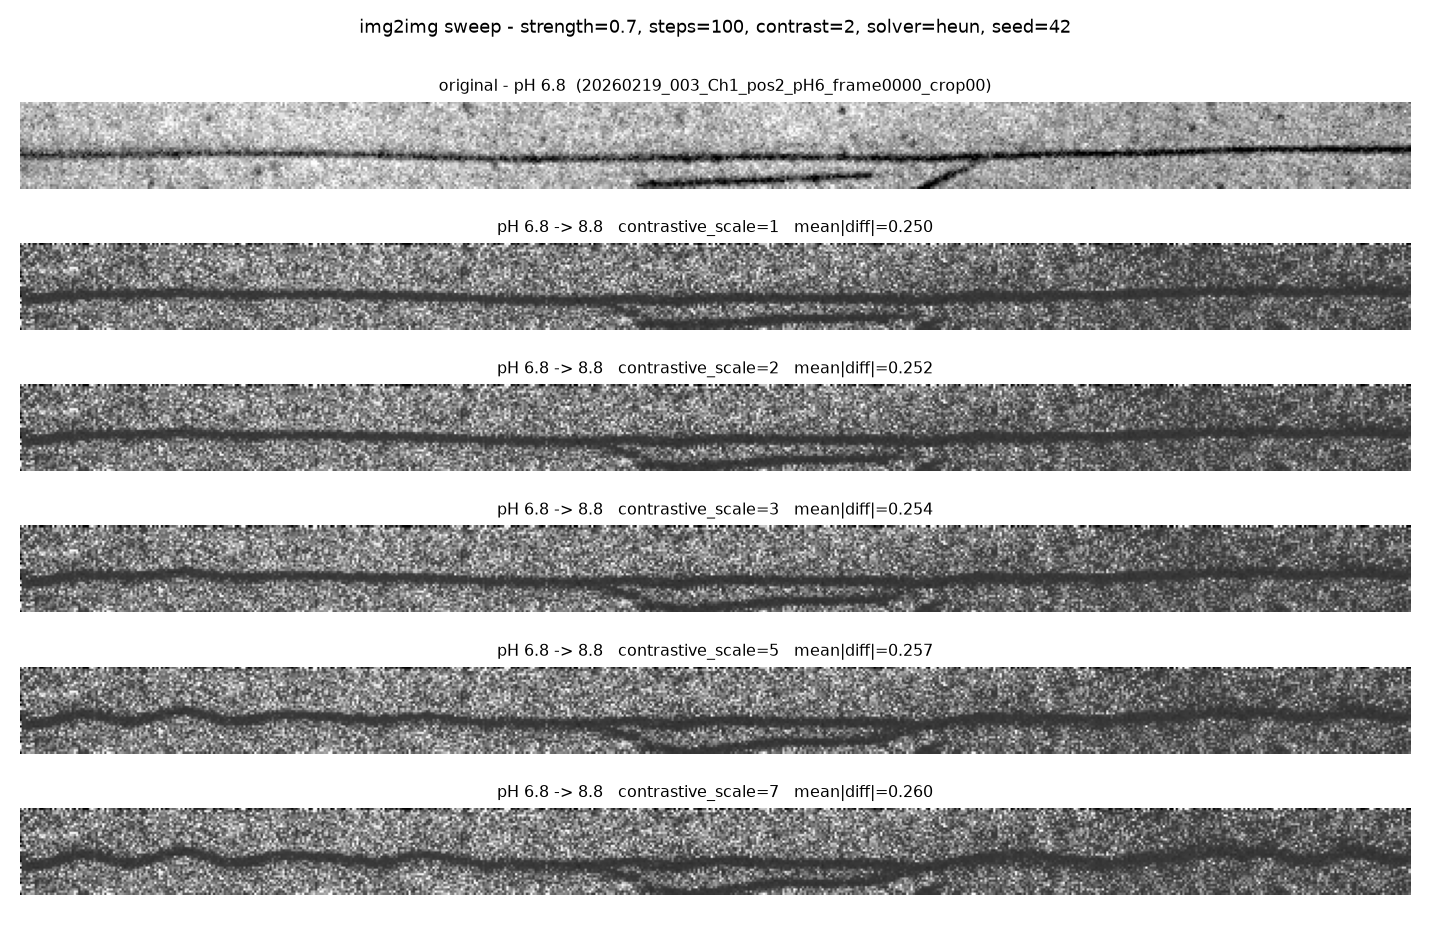
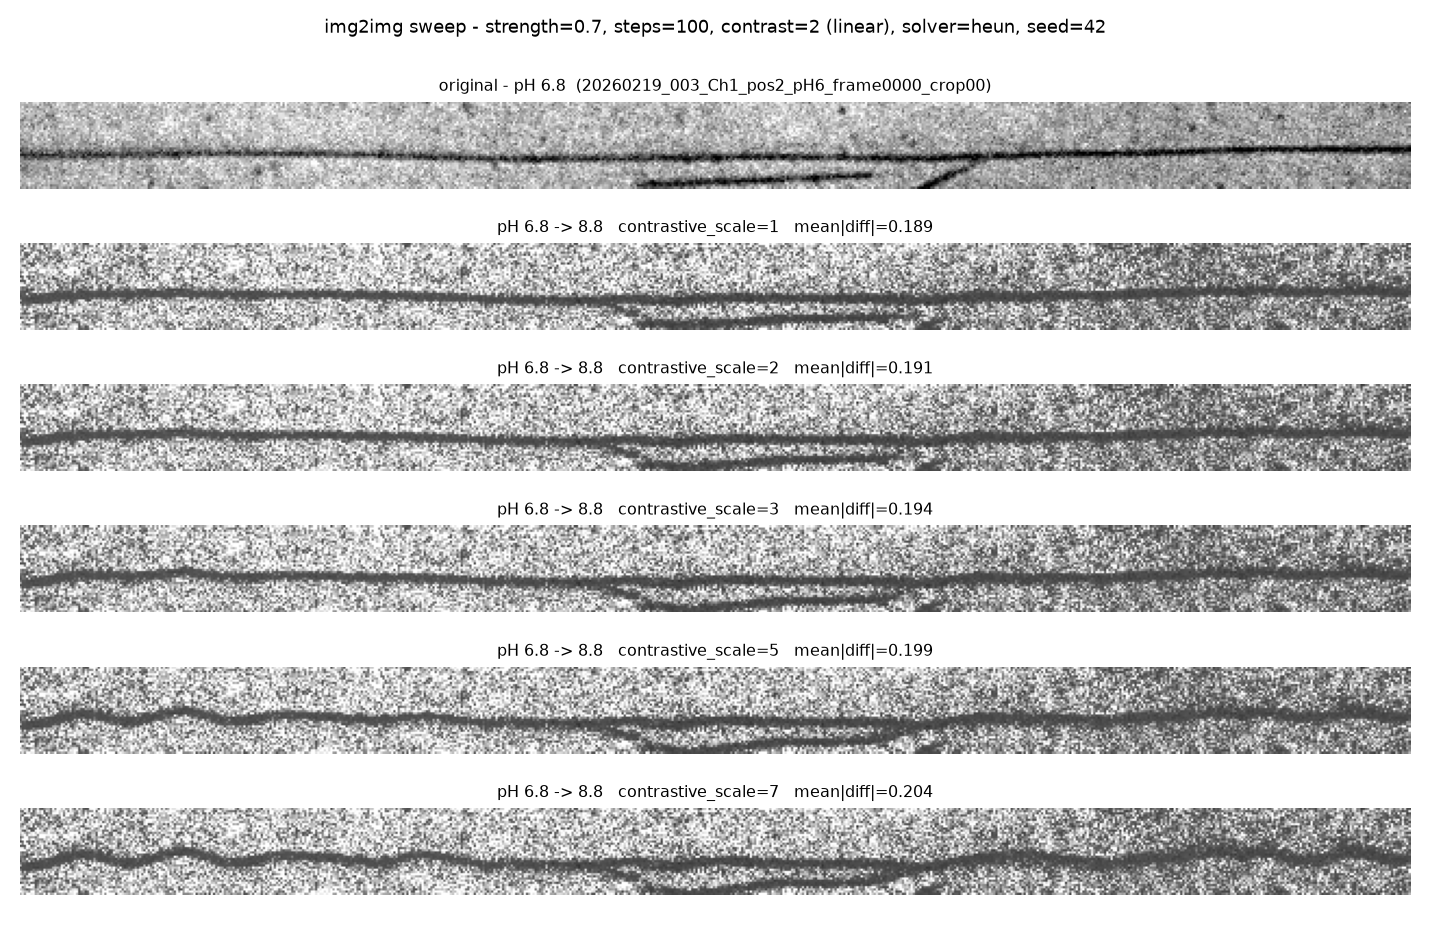
Enhance img2img functionality with gap repair and contrast adjustments
- Added `repair_fibre_gaps` and `save_repair_diagnostic` functions for bridging gaps in fibre images.
- Updated `edit_image` to include a new `contrast_mode` parameter for flexible contrast adjustments.
- Modified `main` function in `test_img2img.py` to support gap repair and diagnostic saving.
- Improved blending mask creation in `create_blending_mask` for better edge handling.

diff --git a/img2img.py b/img2img.py
@@ -30,10 +30,38 @@ def load_and_preprocess_image(image_path):
     return img_tensor, original_size
 
 def create_blending_mask(window_size, device):
-    """create a 2D blending mask using a Hann window for smooth transitions between overlapping patches"""
-    window_1d = torch.hann_window(window_size, periodic=False, device=device)
+    """create a 2D blending mask using a Hann window for smooth transitions between overlapping patches
+
+    The window is taken from the INTERIOR of a Hann window of length window_size + 2.
+    A plain hann_window(window_size) is exactly 0 at both endpoints, and the canvas border
+    is covered by only one patch, so weight_global there is 0. Dividing by the clamped
+    weight then yields velocity 0, freezing row 0 and column 0 at their initial noise
+    value - the speckled 1px edge that appeared on the left/top of every result. Trimming
+    the endpoints keeps the window strictly positive while staying symmetric.
+    """
+    window_1d = torch.hann_window(window_size + 2, periodic=False, device=device)[1:-1]
     mask_2d = window_1d.unsqueeze(1) * window_1d.unsqueeze(0)
     return mask_2d.unsqueeze(0).unsqueeze(0)  # Shape: (1, 1, H, W)
+
+
+def apply_contrast(img01, contrast, mode="linear"):
+    """Contrast boost for an image already mapped to [0, 1].
+
+    mode="linear" scales around the image mean, so the overall brightness is preserved.
+    mode="gamma" is the original img**contrast. That gamma only ever darkens (x**2 < x on
+    [0,1]) - it dropped the mean from 0.64 to 0.43 in testing - and it stretches
+    differences in the dark half of the range, which turns the illumination falloff that
+    is already present in the source crops into a heavy black end. The gradient itself is
+    real data and is left untouched either way; "linear" just stops amplifying it.
+    """
+    if contrast == 1.0:
+        return img01
+    if mode == "gamma":
+        return torch.pow(img01, contrast)
+    if mode != "linear":
+        raise ValueError(f"Unknown contrast mode: {mode!r} (expected 'linear' or 'gamma')")
+    mean = img01.mean()
+    return ((img01 - mean) * contrast + mean).clamp(0, 1)
 
 def safe_mirror_pad_4d(img_tensor, target_h, target_w):
     """
@@ -51,10 +79,127 @@ def safe_mirror_pad_4d(img_tensor, target_h, target_w):
     # Crop to the exact target size if it exceeds
     return img_tensor[:, :, :target_h, :target_w]
 
+def _box_blur(img, k=3):
+    """Small box blur used only to locate the fibre - keeps noise from dominating argmin."""
+    pad = k // 2
+    return F.avg_pool2d(F.pad(img, (pad, pad, pad, pad), mode="reflect"), k, stride=1)
+
+
+@torch.no_grad()
+def repair_fibre_gaps(ref_image, max_gap=30, min_side=6, max_slope=1.5, blur=3):
+    """Bridge short bright breaks in the fibre, returning (repaired_image, list_of_gaps).
+
+    Why this exists: edit_image starts the ODE from (1-strength)*source + strength*noise,
+    so the source stays pinned as an anchor for the whole trajectory. A bright break in the
+    fibre is pinned along with everything else - the guidance wants a dark fibre through
+    that spot while the anchor insists it is bright, and the result fades or breaks exactly
+    there. Loosening the anchor is NOT a fix: at strength 0.85 ghost fibres appear and by
+    0.95 the output degenerates into several stacked copies, because the 0.3 anchor is the
+    only thing suppressing the mirror-padding tiling. So the repair edits the anchor
+    instead, and leaves strength alone.
+
+    Only short interior breaks bracketed by confident fibre on both sides are touched, and
+    the painted line is clamped with a minimum against the original, so background texture
+    survives and only the fibre core darkens.
+    """
+    device = ref_image.device
+    smooth = _box_blur(ref_image, blur)[0, 0]
+    height, width = smooth.shape
+
+    # per-column background: the fibre is thin relative to the strip, so the column median
+    # sits in the background rather than on the fibre
+    background = smooth.median(dim=0).values
+    darkest, path_raw = smooth.min(dim=0)
+    depth = background - darkest  # >0 wherever a dark fibre is present
+
+    strong = torch.quantile(depth, 0.75)
+    if strong <= 0:
+        return ref_image, []
+    confident = depth > 0.5 * strong
+    if int(confident.sum()) < 2 * min_side:
+        return ref_image, []
+
+    # fibre thickness, from the half-maximum width of the confident columns
+    widths = []
+    for x in torch.nonzero(confident).flatten().tolist():
+        widths.append(int((smooth[:, x] < background[x] - 0.5 * depth[x]).sum()))
+    fwhm = torch.tensor(widths, dtype=torch.float32).median().item() if widths else 3.0
+    sigma = float(min(6.0, max(0.8, fwhm / 2.355)))
+
+    repaired = ref_image.clone()
+    rows = torch.arange(height, device=device, dtype=torch.float32).unsqueeze(1)
+    flags = confident.tolist()
+    gaps = []
+
+    x = 0
+    while x < width:
+        if flags[x]:
+            x += 1
+            continue
+        start = x
+        while x < width and not flags[x]:
+            x += 1
+        end = x - 1
+        left, right = start - 1, end + 1
+        # interior breaks only, and only short ones - a long stretch is a fibre that really
+        # does end there, not a defect to paint over
+        if left < 0 or right >= width or (end - start + 1) > max_gap:
+            continue
+        # a large vertical jump between the two sides usually means the columns belong to
+        # two different fibres; bridging them would invent a connection that is not there
+        if abs(int(path_raw[right]) - int(path_raw[left])) / max(1, right - left) > max_slope:
+            continue
+
+        lo = max(0, left - min_side + 1)
+        hi = min(width, right + min_side)
+        amp_left = depth[lo:left + 1][confident[lo:left + 1]]
+        amp_right = depth[right:hi][confident[right:hi]]
+        if amp_left.numel() == 0 or amp_right.numel() == 0:
+            continue
+        amplitude = 0.5 * (amp_left.mean() + amp_right.mean())
+
+        span = right - left
+        for xi in range(start, end + 1):
+            frac = (xi - left) / span
+            y_centre = (1 - frac) * float(path_raw[left]) + frac * float(path_raw[right])
+            base = (1 - frac) * background[left] + frac * background[right]
+            # Blend toward the fibre core weighted by the Gaussian itself: full strength on
+            # the centre line, untouched original a couple of sigma away. Compositing with a
+            # minimum() instead would clamp every background pixel brighter than `base` down
+            # to it, replacing the noise texture across the whole column with a flat band.
+            weight = torch.exp(-0.5 * ((rows.squeeze(1) - y_centre) / sigma) ** 2)
+            repaired[0, 0, :, xi] = (1 - weight) * repaired[0, 0, :, xi] + weight * (base - amplitude)
+
+        gaps.append({"start": start, "end": end, "width": end - start + 1,
+                     "y_left": int(path_raw[left]), "y_right": int(path_raw[right]),
+                     "amplitude": float(amplitude)})
+
+    return repaired, gaps
+
+
+def save_repair_diagnostic(original, repaired, gaps, out_path):
+    """Write a before/after of the anchor repair so the detection can be eyeballed."""
+    orig = ((original[0, 0].detach().cpu() + 1) / 2)
+    rep = ((repaired[0, 0].detach().cpu() + 1) / 2)
+    fig, axes = plt.subplots(3, 1, figsize=(12, 5.5))
+    axes[0].imshow(orig, cmap="gray", vmin=0, vmax=1)
+    axes[0].set_title("source (anchor before repair)", fontsize=9)
+    axes[1].imshow(rep, cmap="gray", vmin=0, vmax=1)
+    axes[1].set_title(f"anchor after repair - {len(gaps)} gap(s) bridged", fontsize=9)
+    axes[2].imshow((rep - orig).abs(), cmap="inferno", vmin=0, vmax=1)
+    axes[2].set_title("what the repair changed", fontsize=9)
+    for ax in axes:
+        ax.axis("off")
+    fig.tight_layout()
+    os.makedirs(os.path.dirname(out_path) or ".", exist_ok=True)
+    fig.savefig(out_path, dpi=130)
+    plt.close(fig)
+
+
 @torch.no_grad()
 def edit_image(model, ref_image, source_pH, target_pH, denoising_strength=0.5,
                num_steps=100, contrastive_scale=3.0, seed=None, window_size=128, stride=64,
-               contrast=1.2, solver="heun"):
+               contrast=1.2, solver="heun", contrast_mode="linear"):
     """
     Edits the reference image to change its pH from source_pH to target_pH using a sliding window approach.
 
@@ -125,9 +270,8 @@ def edit_image(model, ref_image, source_pH, target_pH, denoising_strength=0.5,
     x_cropped = x[:, :, :h, :w]
 
     out = (x_cropped.clamp(-1, 1) + 1) / 2
-    out_contrasted = torch.pow(out, contrast)
 
-    return out_contrasted
+    return apply_contrast(out, contrast, contrast_mode)
 
 def visualize_difference(original_tensor, edited_tensor, original_size, source_pH, target_pH):
     """Visualizes the difference between the original and edited images."""
@@ -172,6 +316,13 @@ def main():
     parser.add_argument("--num_steps", type=int, default=100, help="Number of steps for editing")
     parser.add_argument("--seed", type=int, default=None, help="Random seed for reproducibility (optional)")
     parser.add_argument("--contrast", type=float, default=1.0, help="Contrast strength (optional)")
+    parser.add_argument("--contrast_mode", type=str, default="linear", choices=["linear", "gamma"],
+                        help="'linear' scales around the mean (preserves brightness); "
+                             "'gamma' is the original img**contrast, kept to reproduce older runs")
+    parser.add_argument("--repair_gaps", action="store_true",
+                        help="Bridge short bright breaks in the fibre before editing. Off by "
+                             "default - it modifies the source anchor. Writes a before/after "
+                             "diagnostic next to the result.")
     parser.add_argument("--solver", type=str, default="heun", choices=["euler", "heun"], help="ODE solver for the editing trajectory")
 
     args = parser.parse_args()
@@ -192,7 +343,20 @@ def main():
     
     ref_image, original_size = load_and_preprocess_image(args.ref_image)
     print(f"Loaded image with original resolution: {original_size[0]}x{original_size[1]}")
-    
+
+    display_ref = ref_image
+    if args.repair_gaps:
+        repaired, gaps = repair_fibre_gaps(ref_image)
+        if gaps:
+            spans = ", ".join(f"x={g['start']}-{g['end']} ({g['width']}px)" for g in gaps)
+            print(f"Repaired {len(gaps)} fibre gap(s): {spans}")
+            diag_path = "outputs_img2img/repair_diagnostic.png"
+            save_repair_diagnostic(ref_image, repaired, gaps, diag_path)
+            print(f"Repair diagnostic saved to: {diag_path}")
+            ref_image = repaired
+        else:
+            print("No repairable fibre gaps detected - anchor left unchanged.")
+
     edited_img = edit_image(
         model=model, 
         ref_image=ref_image, 
@@ -203,10 +367,12 @@ def main():
         contrastive_scale=args.contrastive_scale,         
         seed=args.seed,
         contrast=args.contrast,
-        solver=args.solver
+        solver=args.solver,
+        contrast_mode=args.contrast_mode
     )
-    
-    visualize_difference(ref_image, edited_img, original_size, source_pH=args.source_pH, target_pH=args.target_pH)
+
+    # compare against the unrepaired source - the repair is an input-side aid, not a result
+    visualize_difference(display_ref, edited_img, original_size, source_pH=args.source_pH, target_pH=args.target_pH)
     
     orig_w, orig_h = original_size
     edited_crop_for_save = edited_img[:, :, :orig_h, :orig_w]

diff --git a/test_img2img.py b/test_img2img.py
@@ -25,7 +25,8 @@ import torchvision.utils as vutils
 from PIL import Image
 
 from config import PH_MIN, PH_MAX, DEVICE
-from img2img import edit_image, load_and_preprocess_image
+from img2img import (edit_image, load_and_preprocess_image, repair_fibre_gaps,
+                     save_repair_diagnostic)
 from model import ConditionalUNet
 
 DATA_DIR = "data/cropped/cropped_output"
@@ -105,7 +106,8 @@ def save_comparison(orig_img, results, out_path, source_pH, target_pH, src_name,
 
     fig.suptitle(
         f"img2img sweep - strength={args.strength:g}, steps={args.num_steps}, "
-        f"contrast={args.contrast:g}, solver={args.solver}, seed={args.seed}",
+        f"contrast={args.contrast:g} ({args.contrast_mode}), solver={args.solver}, "
+        f"seed={args.seed}{', gaps repaired' if args.repair_gaps else ''}",
         fontsize=10,
     )
     fig.tight_layout(rect=(0, 0, 1, 0.985))
@@ -134,6 +136,11 @@ def main():
                         help="Skip crops shorter than this (they get mirror-tiled into noise)")
     parser.add_argument("--seed", type=int, default=42)
     parser.add_argument("--solver", type=str, default="heun", choices=["euler", "heun"])
+    parser.add_argument("--contrast_mode", type=str, default="linear", choices=["linear", "gamma"],
+                        help="'linear' preserves mean brightness; 'gamma' reproduces older runs")
+    parser.add_argument("--repair_gaps", action="store_true",
+                        help="Bridge short bright breaks in the fibre before editing (off by "
+                             "default; writes a before/after diagnostic per source)")
     parser.add_argument("--save_raw", action="store_true",
                         help="Also write each generated image as a standalone PNG")
     args = parser.parse_args()
@@ -165,7 +172,18 @@ def main():
         target_pH = args.target_pH if args.target_pH is not None else pick_target_pH(source_pH)
         ref_image, original_size = load_and_preprocess_image(src_path)
         orig_w, orig_h = original_size
+        # the figure always shows the untouched source, even when the anchor was repaired
         orig_img = ((ref_image[0, 0, :orig_h, :orig_w].cpu() + 1) / 2)
+        stem = os.path.splitext(os.path.basename(src_path))[0]
+
+        if args.repair_gaps:
+            repaired, gaps = repair_fibre_gaps(ref_image)
+            if gaps:
+                spans = ", ".join(f"{g['start']}-{g['end']}" for g in gaps)
+                print(f"  repaired {len(gaps)} gap(s) in {stem}: cols {spans}")
+                save_repair_diagnostic(ref_image, repaired, gaps,
+                                       os.path.join(args.out_dir, f"repair_{stem}.png"))
+                ref_image = repaired
 
         results = []
         for scale in args.contrastive_scales:
@@ -181,19 +199,18 @@ def main():
                 seed=args.seed,  # same noise for every scale -> differences are the scale alone
                 contrast=args.contrast,
                 solver=args.solver,
+                contrast_mode=args.contrast_mode,
             )
             gen_img = edited[0, 0, :orig_h, :orig_w].cpu()
             mad = torch.abs(gen_img - orig_img).mean().item()
             results.append((scale, gen_img, mad))
 
-            stem = os.path.splitext(os.path.basename(src_path))[0]
             if args.save_raw:
                 vutils.save_image(edited[:, :, :orig_h, :orig_w],
                                   os.path.join(raw_dir, f"{stem}_cs{scale:g}.png"))
             print(f"  [{run:3d}/{total}] {stem} | pH {source_pH:g}->{target_pH:g} | "
                   f"cs={scale:<4g} | mean|diff|={mad:.4f}")
 
-        stem = os.path.splitext(os.path.basename(src_path))[0]
         out_path = os.path.join(
             args.out_dir, f"cmp_pH{source_pH:g}to{target_pH:g}_{stem}.png")
         save_comparison(orig_img, results, out_path, source_pH, target_pH, stem, args)
